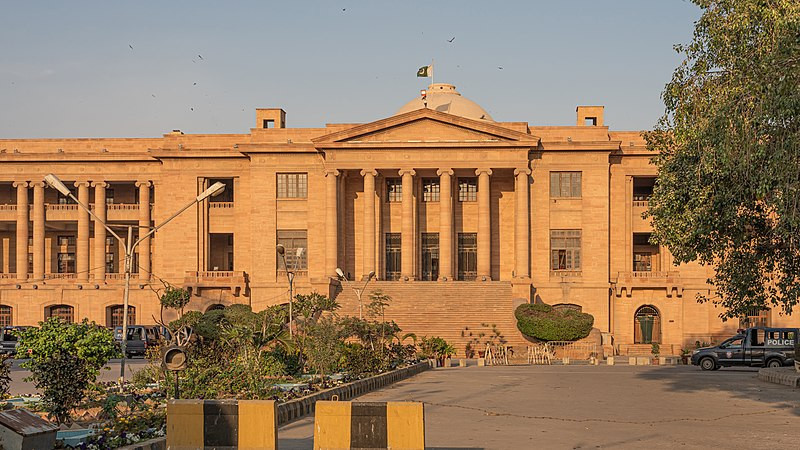
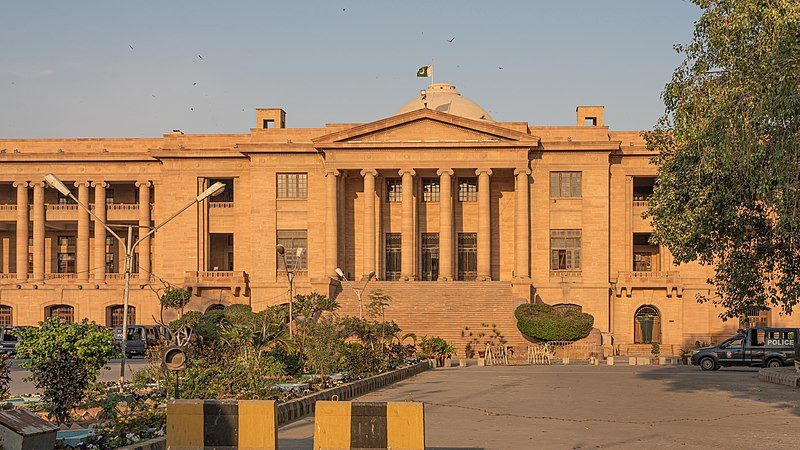
Improve animations, speed, footer, booking buttons and navbar

Changed region(s): [[0.0312, 0.7467, 0.0938, 0.8089]]

diff --git a/index.html b/index.html
@@ -41,7 +41,7 @@
 <style>
   :root { --black:#161616; --ink:#1a1a1a; --muted:#555; --line:#e5e5e5; --bg:#f6f6f6; --white:#fff; }
   * { margin:0; padding:0; box-sizing:border-box; }
-  html { scroll-behavior:smooth; }
+  html { scroll-behavior:smooth; scroll-padding-top:124px; }
   body { font-family:Arial,Helvetica,sans-serif; background:var(--white); color:var(--ink); line-height:1.6; overflow-x:hidden; }
   img { max-width:100%; }
   h1, h2, h3, .serif { font-family:Georgia,'Times New Roman',serif; }
@@ -52,26 +52,28 @@
   .topbar .wrap { display:flex; justify-content:space-between; gap:16px; padding-top:9px; padding-bottom:9px; flex-wrap:wrap; }
   .topbar a:hover { color:var(--white); }
   /* Header */
-  header { position:sticky; top:0; z-index:50; background:var(--white); border-bottom:3px solid var(--black); }
-  .head { display:flex; align-items:center; justify-content:space-between; gap:20px; padding:22px 0; }
-  .brand { display:flex; align-items:center; gap:13px; }
-  .logo-mark { width:56px; height:56px; display:flex; align-items:center; justify-content:center; flex-shrink:0; }
-  .logo-mark svg { width:52px; height:52px; }
-  .brand .bname { font-family:Georgia,serif; font-weight:800; font-size:20px; letter-spacing:.04em; line-height:1.2; white-space:nowrap; }
-  .brand .bsub { font-size:11px; letter-spacing:.5em; color:var(--muted); }
-  nav { display:flex; gap:24px; font-size:15px; font-weight:700; }
+  header { position:sticky; top:0; z-index:50; background:var(--white); border-bottom:4px solid var(--black); }
+  .head { display:flex; align-items:center; justify-content:space-between; gap:20px; padding:26px 0; }
+  .brand { display:flex; align-items:center; gap:14px; }
+  .logo-mark { width:64px; height:64px; display:flex; align-items:center; justify-content:center; flex-shrink:0; }
+  .logo-mark svg { width:60px; height:60px; }
+  .brand .bname { font-family:Georgia,serif; font-weight:800; font-size:22px; letter-spacing:.04em; line-height:1.2; white-space:nowrap; }
+  .brand .bsub { font-size:12px; letter-spacing:.5em; color:var(--muted); }
+  nav { display:flex; gap:26px; font-size:16px; font-weight:700; }
   nav a { color:#333; padding:6px 0; position:relative; }
   nav a::after { content:""; position:absolute; left:0; bottom:0; width:100%; height:2px; background:var(--black); transform:scaleX(0); transform-origin:left; transition:transform .3s ease; }
   nav a:hover { color:var(--black); }
   nav a:hover::after { transform:scaleX(1); }
-  .btn { display:inline-block; font-size:14px; font-weight:700; letter-spacing:.06em; padding:15px 28px; border-radius:8px; border:1.5px solid var(--black); cursor:pointer; }
+  .btn { display:inline-block; font-size:14px; font-weight:700; letter-spacing:.06em; padding:15px 28px; border-radius:8px; border:1.5px solid var(--black); cursor:pointer; transition:transform .25s cubic-bezier(.34,1.45,.44,1), background .25s ease, color .25s ease, box-shadow .25s ease; }
+  .btn:hover { transform:translateY(-2px); }
+  .btn:active { transform:scale(.97); }
   .btn.white::after { background:linear-gradient(105deg, transparent, rgba(0,0,0,.10), transparent); }
   .btn.black { background:var(--black); color:var(--white); }
   .btn.black:hover { background:#2a2a2a; }
   .btn.white { background:var(--white); color:var(--black); }
   .btn.white:hover { background:#f0f0f0; }
-  .menu-btn { display:none; width:48px; height:48px; border:none; border-radius:8px; background:var(--white); cursor:pointer; align-items:center; justify-content:center; flex-direction:column; gap:5px; flex-shrink:0; }
-  .menu-btn span { display:block; width:20px; height:2px; background:var(--black); }
+  .menu-btn { display:none; width:48px; height:48px; border:none; border-radius:8px; background:var(--white); cursor:pointer; align-items:center; justify-content:center; flex-direction:column; gap:6px; flex-shrink:0; }
+  .menu-btn span { display:block; width:26px; height:3px; background:var(--black); border-radius:2px; }
   @media (max-width:1180px) {
     nav { display:none; position:absolute; top:100%; left:0; right:0; background:var(--white); flex-direction:column; gap:0; border-bottom:1px solid var(--line); box-shadow:0 14px 28px rgba(0,0,0,.12); z-index:60; }
     nav.open { display:flex; }
@@ -86,9 +88,14 @@
   .hero h1 { font-size:50px; line-height:1.14; margin:18px auto 14px; max-width:820px; }
   .hero p { font-size:17px; color:#444; max-width:720px; margin:0 auto 28px; }
   .hero .cta-row { display:flex; gap:14px; justify-content:center; flex-wrap:wrap; margin-bottom:30px; }
-  .searchbar { display:flex; max-width:640px; margin:0 auto; border:1.5px solid var(--black); border-radius:12px; overflow:hidden; background:var(--white); box-shadow:0 10px 30px rgba(0,0,0,.15); }
-  .searchbar input { flex:1; min-width:0; border:none; outline:none; padding:16px 18px; font-size:16px; font-family:inherit; }
-  .searchbar button { border:none; background:var(--black); color:var(--white); padding:0 28px; font-size:15px; font-weight:700; cursor:pointer; }
+  .searchbar { display:flex; align-items:center; max-width:640px; margin:0 auto; border:1px solid #e2e2e2; border-radius:999px; background:var(--white); box-shadow:0 14px 36px rgba(0,0,0,.13); padding:6px; transition:box-shadow .25s ease, border-color .25s ease; }
+  .searchbar:focus-within { border-color:var(--black); box-shadow:0 14px 36px rgba(0,0,0,.13), 0 0 0 2px var(--black); }
+  .search-ico { display:flex; align-items:center; padding:0 4px 0 16px; color:#777; flex-shrink:0; }
+  .search-ico svg { width:20px; height:20px; }
+  .searchbar input { flex:1; min-width:0; border:none; outline:none; padding:12px 8px; font-size:16px; font-family:inherit; background:transparent; }
+  .searchbar button { border:none; background:var(--black); color:var(--white); padding:13px 28px; font-size:15px; font-weight:700; cursor:pointer; border-radius:999px; flex-shrink:0; transition:background .25s ease, transform .2s ease; }
+  .searchbar button:hover { background:#2a2a2a; }
+  .searchbar button:active { transform:scale(.96); }
   .chips { display:flex; gap:10px; justify-content:center; flex-wrap:wrap; margin-top:18px; }
   .chip { border:1px solid #161616; border-radius:999px; padding:7px 16px; font-size:13px; color:#161616; cursor:pointer; background:transparent; transition:transform .25s ease, background .25s ease, color .25s ease; }
   .chip:hover, .chip.active { background:var(--black); color:var(--white); border-color:var(--black); }
@@ -96,7 +103,7 @@
   .trustbar span { color:#161616; }
   /* Hero person — Khurram Kamal on the front */
   .hero-person { text-align:center; }
-  .hero-person img { width:100%; max-width:360px; aspect-ratio:1; object-fit:cover; border-radius:50%; border:3px solid var(--black); box-shadow:0 10px 30px rgba(0,0,0,.18); display:block; margin:0 auto; animation:heroUp .8s ease both .2s; }
+  .hero-person img { width:100%; max-width:360px; aspect-ratio:1; object-fit:cover; border-radius:50%; border:3px solid var(--black); box-shadow:0 10px 30px rgba(0,0,0,.18); display:block; margin:0 auto; animation:heroPhoto .9s cubic-bezier(.22,1.3,.36,1) both .15s, photoGlow 5.5s ease-in-out 1.2s infinite alternate; }
   .hero-person .hp-name { font-family:Georgia,serif; font-size:22px; font-weight:700; color:#161616; margin-top:14px; }
   .hero-person .hp-title { font-size:12px; letter-spacing:.14em; text-transform:uppercase; color:#666; margin-top:4px; }
   @media (min-width:821px) {
@@ -213,12 +220,22 @@
   .contact-info h3 { font-size:20px; margin-bottom:8px; }
   .contact-info p, .contact-info a { font-size:15px; color:#333; }
   /* Footer */
-  footer { background:var(--black); color:#aaa; padding:40px 0; text-align:center; font-size:13px; }
-  footer .fmark { width:46px; height:46px; display:flex; align-items:center; justify-content:center; margin:0 auto 14px; }
+  footer { background:var(--black); color:#aaa; padding:56px 0 0; font-size:14px; }
+  footer .fgrid { display:grid; grid-template-columns:1.4fr 1fr 1fr 1.2fr; gap:36px; text-align:left; }
+  footer .fmark { width:46px; height:46px; display:flex; align-items:center; justify-content:center; margin:0 0 14px; }
   footer .fmark svg { width:42px; height:42px; }
-  footer .fname { color:var(--white); font-family:Georgia,serif; font-size:18px; letter-spacing:.18em; font-weight:700; }
+  footer .fname { color:var(--white); font-family:Georgia,serif; font-size:17px; letter-spacing:.14em; font-weight:700; }
   footer .fsub { font-size:11px; letter-spacing:.5em; color:#888; margin-top:4px; }
-  footer .fmeta { margin-top:16px; }
+  footer .fdesc { margin-top:14px; line-height:1.65; color:#999; max-width:300px; }
+  footer h4 { color:var(--white); font-size:13px; letter-spacing:.22em; text-transform:uppercase; margin:6px 0 16px; }
+  footer .fcol a { display:block; color:#aaa; text-decoration:none; padding:5px 0; transition:color .25s ease, transform .25s ease; }
+  footer .fcol a:hover { color:var(--white); transform:translateX(4px); }
+  footer .fcol p { line-height:1.65; color:#999; padding:5px 0; margin:0; }
+  footer .fcol a.fbtn { display:inline-block; margin-top:12px; border:1.5px solid #fff; color:#fff; padding:11px 20px; border-radius:8px; font-weight:700; font-size:13px; letter-spacing:.05em; }
+  footer .fcol a.fbtn:hover { background:#fff; color:var(--black); transform:none; }
+  footer .fbar { border-top:1px solid #2a2a2a; margin-top:42px; padding:20px 0 24px; display:flex; justify-content:space-between; gap:12px; flex-wrap:wrap; font-size:13px; color:#888; }
+  @media (max-width:820px) { footer .fgrid { grid-template-columns:1fr 1fr; } footer .fbrand { grid-column:1 / -1; } footer .fbar { justify-content:center; text-align:center; } }
+  @media (max-width:480px) { footer .fgrid { grid-template-columns:1fr; } }
   /* WhatsApp float */
   .wa-float { position:fixed; right:22px; bottom:22px; z-index:100; width:60px; height:60px; border-radius:50%; background:#25D366; display:flex; align-items:center; justify-content:center; box-shadow:0 8px 24px rgba(0,0,0,.3); }
   .wa-float::before, .wa-float::after { content:""; position:absolute; inset:0; border-radius:50%; background:#25D366; z-index:-1; animation:waRing 2.2s ease-out infinite; }
@@ -230,6 +247,7 @@
   /* Animations */
   .hero .kicker { animation:heroUp .8s ease both; }
   .hero h1 { animation:heroUp .8s ease both .12s; }
+  .hero h1.split { animation:none; }
   .hero p { animation:heroUp .8s ease both .24s; }
   .hero .cta-row { animation:heroUp .8s ease both .36s; }
   .hero .searchbar { animation:heroUp .8s ease both .44s; }
@@ -241,16 +259,27 @@
   .lawyer:hover { transform:translateY(-4px); box-shadow:0 16px 34px rgba(0,0,0,.12); }
   header { transition:box-shadow .3s ease; }
   header.scrolled { box-shadow:0 8px 26px rgba(0,0,0,.14); }
-  /* Scroll reveal: desktop only, on mobile content is always visible so nothing ever looks hidden/misaligned */
-  @media (min-width:821px) {
-    .reveal { opacity:0; transform:translateY(28px) scale(.98); transition:opacity .7s ease, transform .7s ease; }
-    .reveal.visible { opacity:1; transform:translateY(0) scale(1); }
-    .area:nth-child(3n+2) { transition-delay:.07s; }
-    .area:nth-child(3n+3) { transition-delay:.14s; }
-    .lawyer:nth-child(2) { transition-delay:.08s; }
-    .lawyer:nth-child(3) { transition-delay:.16s; }
-    .lawyer:nth-child(4) { transition-delay:.24s; }
+  /* Scroll reveal: video-style pop-in on all screens, staggered via --rd (set by JS) */
+  .reveal { opacity:0; }
+  .reveal.visible { animation:revealIn .8s cubic-bezier(.22,1.28,.36,1) both; animation-delay:var(--rd, 0s); }
+  @keyframes revealIn { from { opacity:0; transform:translateY(30px) scale(.95); } to { opacity:1; transform:translateY(0) scale(1); } }
+  @media (max-width:820px) {
+    .reveal.visible { animation-name:revealInM; animation-duration:.55s; animation-timing-function:ease; }
   }
+  @keyframes revealInM { from { opacity:0; transform:translateY(18px) scale(.98); } to { opacity:1; transform:translateY(0) scale(1); } }
+  .sec-head.reveal { opacity:1; }
+  .sec-head.reveal.visible { animation:none; }
+  /* Word-by-word heading reveal (words split by JS) */
+  .w { display:inline-block; opacity:0; transform:translateY(16px); }
+  .hero h1 .w { animation:wordUp .6s cubic-bezier(.22,1.3,.36,1) both; animation-delay:calc(.15s + var(--i) * 60ms); }
+  .sec-head.visible .w { animation:wordUp .55s cubic-bezier(.22,1.3,.36,1) both; animation-delay:calc(var(--i) * 50ms); }
+  @keyframes wordUp { from { opacity:0; transform:translateY(16px); } to { opacity:1; transform:translateY(0); } }
+  @keyframes popIn { from { opacity:0; transform:scale(.3); } to { opacity:1; transform:scale(1); } }
+  @keyframes heroPhoto { from { opacity:0; transform:scale(.82); } to { opacity:1; transform:scale(1); } }
+  @keyframes photoGlow { from { box-shadow:0 10px 30px rgba(0,0,0,.18); } to { box-shadow:0 18px 44px rgba(0,0,0,.26); } }
+  .area.visible .n, .step.visible .n { animation:popIn .55s cubic-bezier(.22,1.3,.36,1) both; animation-delay:calc(var(--rd, 0s) + .15s); }
+  .stat .num { display:inline-block; }
+  .stat .num.pop { animation:popIn .5s cubic-bezier(.22,1.3,.36,1) both; }
   /* Courts gallery */
   .courts { display:grid; grid-template-columns:repeat(3,1fr); gap:20px; }
   .court { overflow:hidden; border-radius:14px; }
@@ -283,7 +312,7 @@
   /* Hero scroll-down hint */
   .scroll-hint { position:absolute; left:50%; bottom:16px; transform:translateX(-50%); z-index:1; width:38px; height:38px; border:1.5px solid #161616; border-radius:50%; display:flex; align-items:center; justify-content:center; color:#161616; font-size:18px; animation:hintBounce 1.8s ease-in-out infinite; }
   @keyframes hintBounce { 0%,100% { transform:translateX(-50%) translateY(0); } 50% { transform:translateX(-50%) translateY(8px); } }
-  @media (prefers-reduced-motion:reduce) { * { animation:none !important; transition:none !important; } .reveal { opacity:1; transform:none; } }
+  @media (prefers-reduced-motion:reduce) { * { animation:none !important; transition:none !important; } .reveal { opacity:1; transform:none; } .w { opacity:1; transform:none; } }
   @media (max-width:820px) {
     .hero { padding:64px 0 60px; }
     .hero h1 { font-size:34px; }
@@ -309,18 +338,19 @@
   @media (max-width:480px) {
     .hero h1 { font-size:28px; }
     .hero p { font-size:15px; }
-    .brand .bname { font-size:14px; letter-spacing:.03em; }
-    .brand .bsub { font-size:9px; }
+    .brand .bname { font-size:16px; letter-spacing:.03em; }
+    .brand .bsub { font-size:10px; }
     .head .btn.black { display:none; }
     .wrap { padding:0 16px; }
-    .logo-mark { width:48px; height:48px; }
-    .logo-mark svg { width:44px; height:44px; }
-    .menu-btn { width:44px; height:44px; }
+    .logo-mark { width:56px; height:56px; }
+    .logo-mark svg { width:52px; height:52px; }
+    .menu-btn { width:48px; height:48px; }
     .hero .kicker .ksep { display:none; }
     .hero .kicker .k2 { display:block; margin-top:6px; }
-    .searchbar { flex-direction:column; }
-    .searchbar button { padding:14px; width:100%; }
-    .searchbar input { padding:14px 12px; font-size:15px; }
+    .searchbar { flex-direction:row; padding:5px; }
+    .searchbar button { padding:11px 20px; width:auto; font-size:14px; }
+    .searchbar input { padding:10px 6px; font-size:15px; }
+    .search-ico { padding:0 2px 0 12px; }
     .topbar { font-size:11px; }
     h2 { font-size:28px; }
     section { padding:52px 0; }
@@ -328,13 +358,13 @@
     .lawyer.featured .photo { width:100%; height:auto; aspect-ratio:1; }
   }
   @media (max-width:400px) {
-    .brand .bname { font-size:13px; }
+    .brand .bname { font-size:14px; }
   }
   @media (max-width:360px) {
-    .brand .bname { font-size:12px; letter-spacing:.01em; }
-    .brand .bsub { font-size:8px; }
-    .logo-mark { width:44px; height:44px; }
-    .logo-mark svg { width:40px; height:40px; }
+    .brand .bname { font-size:13px; letter-spacing:.01em; }
+    .brand .bsub { font-size:8.5px; }
+    .logo-mark { width:48px; height:48px; }
+    .logo-mark svg { width:44px; height:44px; }
     .menu-btn { width:44px; height:44px; }
   }
 </style>
@@ -361,7 +391,7 @@
       <a href="#how">How It Works</a>
       <a href="#contact">Contact</a>
     </nav>
-    <a class="btn black" href="#contact">Book Consultation</a>
+    <a class="btn black" href="https://wa.me/923456976866?text=Hello%20Khurram%20Kamal%20Associates%2C%20I%20would%20like%20to%20book%20a%20consultation." target="_blank" rel="noopener">Book Consultation</a>
     <button class="menu-btn" id="menuBtn" type="button" aria-label="Open menu" aria-expanded="false"><span></span><span></span><span></span></button>
   </div>
 </header>
@@ -379,10 +409,11 @@
       <h1>Facing a legal matter? Get advice from advocates who prepare every case as if it were their own.</h1>
       <p>This is the official website of Khurram Kamal Associates (KKA), a litigation law firm at Fareed Chambers, Saddar, Karachi, appearing before the High Court, District Courts and Special Courts. We act for individuals, families, businesses and institutions across Karachi.</p>
       <div class="cta-row">
-        <a class="btn black" href="#contact">Book Consultation</a>
+        <a class="btn black" href="https://wa.me/923456976866?text=Hello%20Khurram%20Kamal%20Associates%2C%20I%20would%20like%20to%20book%20a%20consultation." target="_blank" rel="noopener">Book Consultation</a>
         <a class="btn white" href="#practice">Browse Practice Areas</a>
       </div>
       <form class="searchbar" id="searchForm">
+        <span class="search-ico" aria-hidden="true"><svg viewBox="0 0 24 24" fill="none" stroke="currentColor" stroke-width="2.2" stroke-linecap="round"><circle cx="11" cy="11" r="7"/><path d="M20 20l-3.8-3.8"/></svg></span>
         <input id="areaSearch" type="text" placeholder="Search practice area, e.g. Criminal, Family, IP…" autocomplete="off">
         <button type="submit">Search</button>
       </form>
@@ -440,9 +471,9 @@
         <p>Our advocates appear before the High Court, the District Courts and the Special Courts, from Fareed Chambers, minutes from the Sindh High Court.</p>
       </div>
       <div class="courts">
-        <figure class="court"><img src="images/sindh-high-court.jpg" alt="Sindh High Court, Karachi"><figcaption><strong>Sindh High Court</strong><span>Karachi</span></figcaption></figure>
-        <figure class="court"><img src="images/city-court.jpg" alt="City Court, Karachi"><figcaption><strong>City Court</strong><span>Karachi, District Courts</span></figcaption></figure>
-        <figure class="court"><img src="images/supreme-court.jpg" alt="Supreme Court of Pakistan, Islamabad"><figcaption><strong>Supreme Court of Pakistan</strong><span>Islamabad</span></figcaption></figure>
+        <figure class="court"><img src="images/sindh-high-court.jpg" alt="Sindh High Court, Karachi" loading="lazy" decoding="async"><figcaption><strong>Sindh High Court</strong><span>Karachi</span></figcaption></figure>
+        <figure class="court"><img src="images/city-court.jpg" alt="City Court, Karachi" loading="lazy" decoding="async"><figcaption><strong>City Court</strong><span>Karachi, District Courts</span></figcaption></figure>
+        <figure class="court"><img src="images/supreme-court.jpg" alt="Supreme Court of Pakistan, Islamabad" loading="lazy" decoding="async"><figcaption><strong>Supreme Court of Pakistan</strong><span>Islamabad</span></figcaption></figure>
       </div>
       <p class="bar-line"><strong>Bar Memberships:</strong> Sindh High Court Bar Association &nbsp;·&nbsp; Karachi Bar Association &nbsp;·&nbsp; Sindh Bar Council &nbsp;·&nbsp; International Bar Association, London.</p>
     </div>
@@ -505,7 +536,7 @@
       </div>
       <div class="lawyers">
         <article class="lawyer featured">
-          <img class="photo" src="images/khurram-kamal-sq.jpg" alt="Syed Khurram Kamal, Advocate of the High Court">
+          <img class="photo" src="images/khurram-kamal-sq.jpg" alt="Syed Khurram Kamal, Advocate of the High Court" loading="lazy" decoding="async">
           <div class="info">
             <h3>Syed Khurram Kamal</h3>
             <div class="title">Advocate of the High Court · Managing Partner</div>
@@ -524,7 +555,7 @@
           </div>
         </article>
         <article class="lawyer">
-          <img class="photo" src="images/kausar-saba-sq.jpg" alt="Kausar Saba, Advocate of the High Court of Sindh">
+          <img class="photo" src="images/kausar-saba-sq.jpg" alt="Kausar Saba, Advocate of the High Court of Sindh" loading="lazy" decoding="async">
           <div class="info">
             <h3>Kausar Saba</h3>
             <div class="title">Advocate, High Court of Sindh</div>
@@ -542,7 +573,7 @@
           </div>
         </article>
         <article class="lawyer">
-          <img class="photo" src="images/sadia-khatoon-sq.jpg" alt="Advocate Sadia Khatoon">
+          <img class="photo" src="images/sadia-khatoon-sq.jpg" alt="Advocate Sadia Khatoon" loading="lazy" decoding="async">
           <div class="info">
             <h3>Advocate Sadia Khatoon</h3>
             <div class="title">Advocate of the High Court · Ledger No. 7430-HC-KHI</div>
@@ -560,7 +591,7 @@
           </div>
         </article>
         <article class="lawyer">
-          <img class="photo" src="images/yereha-jafferi-sq.jpg" alt="Yereha Jafferi, Advocate">
+          <img class="photo" src="images/yereha-jafferi-sq.jpg" alt="Yereha Jafferi, Advocate" loading="lazy" decoding="async">
           <div class="info">
             <h3>Yereha Jafferi</h3>
             <div class="title">Advocate</div>
@@ -667,7 +698,7 @@
     <div class="wrap">
       <h2>Facing a legal matter? Talk to an advocate today.</h2>
       <p>Book a consultation with Khurram Kamal Associates, and get clear advice on your next step.</p>
-      <a class="btn white" href="#contact">Book Consultation</a>
+      <a class="btn white" href="https://wa.me/923456976866?text=Hello%20Khurram%20Kamal%20Associates%2C%20I%20would%20like%20to%20book%20a%20consultation." target="_blank" rel="noopener">Book Consultation</a>
     </div>
   </section>
 
@@ -736,10 +767,44 @@
 
 <footer>
   <div class="wrap">
-    <div class="fmark" aria-hidden="true"><svg viewBox="0 0 100 100" fill="none" aria-hidden="true"><g fill="#fff" stroke="#fff"><circle cx="50" cy="14" r="4"/><rect x="48" y="18" width="4" height="56"/><path d="M16 30 H84" stroke-width="4" stroke-linecap="round"/><circle cx="16" cy="30" r="3"/><circle cx="84" cy="30" r="3"/><path d="M16 30 L8 52 M16 30 L24 52" stroke-width="1.6"/><path d="M84 30 L76 52 M84 30 L92 52" stroke-width="1.6"/><path d="M6 52 Q16 68 26 52 Z"/><path d="M74 52 Q84 68 94 52 Z"/><rect x="38" y="74" width="24" height="5" rx="1"/><rect x="32" y="79" width="36" height="5" rx="1"/></g></svg></div>
-    <div class="fname">KHURRAM KAMAL ASSOCIATES</div>
-    <div class="fsub">THE LAW FIRM</div>
-    <div class="fmeta">55-C, 5th Floor, Fareed Chambers, Abdullah Haroon Road, Saddar, Karachi<br>© 2026 Khurram Kamal Associates. All rights reserved.</div>
+    <div class="fgrid">
+      <div class="fcol fbrand">
+        <div class="fmark" aria-hidden="true"><svg viewBox="0 0 100 100" fill="none" aria-hidden="true"><g fill="#fff" stroke="#fff"><circle cx="50" cy="14" r="4"/><rect x="48" y="18" width="4" height="56"/><path d="M16 30 H84" stroke-width="4" stroke-linecap="round"/><circle cx="16" cy="30" r="3"/><circle cx="84" cy="30" r="3"/><path d="M16 30 L8 52 M16 30 L24 52" stroke-width="1.6"/><path d="M84 30 L76 52 M84 30 L92 52" stroke-width="1.6"/><path d="M6 52 Q16 68 26 52 Z"/><path d="M74 52 Q84 68 94 52 Z"/><rect x="38" y="74" width="24" height="5" rx="1"/><rect x="32" y="79" width="36" height="5" rx="1"/></g></svg></div>
+        <div class="fname">KHURRAM KAMAL ASSOCIATES</div>
+        <div class="fsub">THE LAW FIRM</div>
+        <p class="fdesc">Advocates and legal consultants in Saddar, Karachi, representing clients before the High Court of Sindh, district courts and special courts since 2016.</p>
+      </div>
+      <div class="fcol">
+        <h4>Pages</h4>
+        <a href="#top">Home</a>
+        <a href="#about">About Us</a>
+        <a href="#practice">Practice Areas</a>
+        <a href="#team">Our Lawyers</a>
+        <a href="#cases">Latest Cases</a>
+        <a href="#faq">FAQs</a>
+        <a href="#contact">Contact</a>
+      </div>
+      <div class="fcol">
+        <h4>Practice Areas</h4>
+        <a href="#practice">Constitutional Law</a>
+        <a href="#practice">Corporate Law</a>
+        <a href="#practice">Criminal Law</a>
+        <a href="#practice">Family Law</a>
+        <a href="#practice">Banking Law</a>
+        <a href="#practice">View All Areas →</a>
+      </div>
+      <div class="fcol">
+        <h4>Contact</h4>
+        <p>55-C, 5th Floor, Fareed Chambers, Abdullah Haroon Road, Saddar, Karachi</p>
+        <a href="mailto:syedkhurramk44@gmail.com">syedkhurramk44@gmail.com</a>
+        <a href="https://wa.me/923456976866" target="_blank" rel="noopener">WhatsApp: 0345 6976866</a>
+        <a class="fbtn" href="https://wa.me/923456976866?text=Hello%20Khurram%20Kamal%20Associates%2C%20I%20would%20like%20to%20book%20a%20consultation." target="_blank" rel="noopener">Book a Consultation</a>
+      </div>
+    </div>
+    <div class="fbar">
+      <span>© 2026 Khurram Kamal Associates. All rights reserved.</span>
+      <span>Advocates · High Court of Sindh · Karachi</span>
+    </div>
   </div>
 </footer>
 
@@ -762,9 +827,35 @@
     mainNav.classList.remove('open');
     menuBtn.setAttribute('aria-expanded', 'false');
   }));
-  // Scroll reveal (desktop only, mobile content is always visible)
-  const io = new IntersectionObserver((es) => es.forEach(e => { if (e.isIntersecting) { e.target.classList.add('visible'); io.unobserve(e.target); } }), { threshold: 0.1 });
-  document.querySelectorAll('section .sec-head, .area, .lawyer, .step, .why div, .faq details, .acc details, .serve div, .court, .case, .contact-grid > *, footer .wrap').forEach(el => { el.classList.add('reveal'); io.observe(el); });
+  // Word-by-word split for headings (video-style stagger)
+  function splitWords(el) {
+    const walker = document.createTreeWalker(el, NodeFilter.SHOW_TEXT);
+    const nodes = []; while (walker.nextNode()) nodes.push(walker.currentNode);
+    let i = 0;
+    nodes.forEach(node => {
+      const frag = document.createDocumentFragment();
+      node.textContent.split(/(\s+)/).forEach(part => {
+        if (!part) return;
+        if (/^\s+$/.test(part)) { frag.appendChild(document.createTextNode(' ')); return; }
+        const s = document.createElement('span'); s.className = 'w'; s.style.setProperty('--i', i++); s.textContent = part;
+        frag.appendChild(s);
+      });
+      node.parentNode.replaceChild(frag, node);
+    });
+  }
+  const heroH1 = document.querySelector('.hero h1');
+  if (heroH1) { splitWords(heroH1); heroH1.classList.add('split'); }
+  document.querySelectorAll('.sec-head h2').forEach(splitWords);
+  // Scroll reveal (all screens; gentler on mobile via CSS)
+  const io = new IntersectionObserver((es) => es.forEach(e => { if (e.isIntersecting) { e.target.classList.add('visible'); io.unobserve(e.target); } }), { threshold: 0.1, rootMargin: '0px 0px -6% 0px' });
+  document.querySelectorAll('section .sec-head, .area, .lawyer, .step, .why div, .faq details, .acc details, .serve div, .court, .case, .contact-grid > *, footer .wrap').forEach(el => {
+    el.classList.add('reveal');
+    const sibs = Array.from(el.parentNode.children).filter(c => c.classList && c.classList.contains('reveal'));
+    el.style.setProperty('--rd', Math.min(sibs.length, 8) * 60 + 'ms');
+    io.observe(el);
+  });
+  // Failsafe: never leave on-screen content hidden
+  setTimeout(() => document.querySelectorAll('.reveal:not(.visible), .sec-head:not(.visible)').forEach(el => { const r = el.getBoundingClientRect(); if (r.top < innerHeight) el.classList.add('visible'); }), 2500);
   // Animated counters (skip the year 2016)
   const cio = new IntersectionObserver((es) => es.forEach(e => {
     if (!e.isIntersecting) return; cio.unobserve(e.target);
@@ -772,7 +863,7 @@
     if (raw === '2016') return;
     const target = parseInt(raw, 10), suffix = raw.replace(/[0-9]/g, '');
     const t0 = performance.now(), dur = 1400;
-    (function tick(t) { const p = Math.min((t - t0) / dur, 1); el.textContent = Math.round(target * (1 - Math.pow(1 - p, 3))) + suffix; if (p < 1) requestAnimationFrame(tick); })(t0);
+    (function tick(t) { const p = Math.min((t - t0) / dur, 1); el.textContent = Math.round(target * (1 - Math.pow(1 - p, 3))) + suffix; if (p < 1) requestAnimationFrame(tick); else el.classList.add('pop'); })(t0);
   }), { threshold: 0.5 });
   document.querySelectorAll('.stat .num').forEach(c => cio.observe(c));
   // Header shadow on scroll
